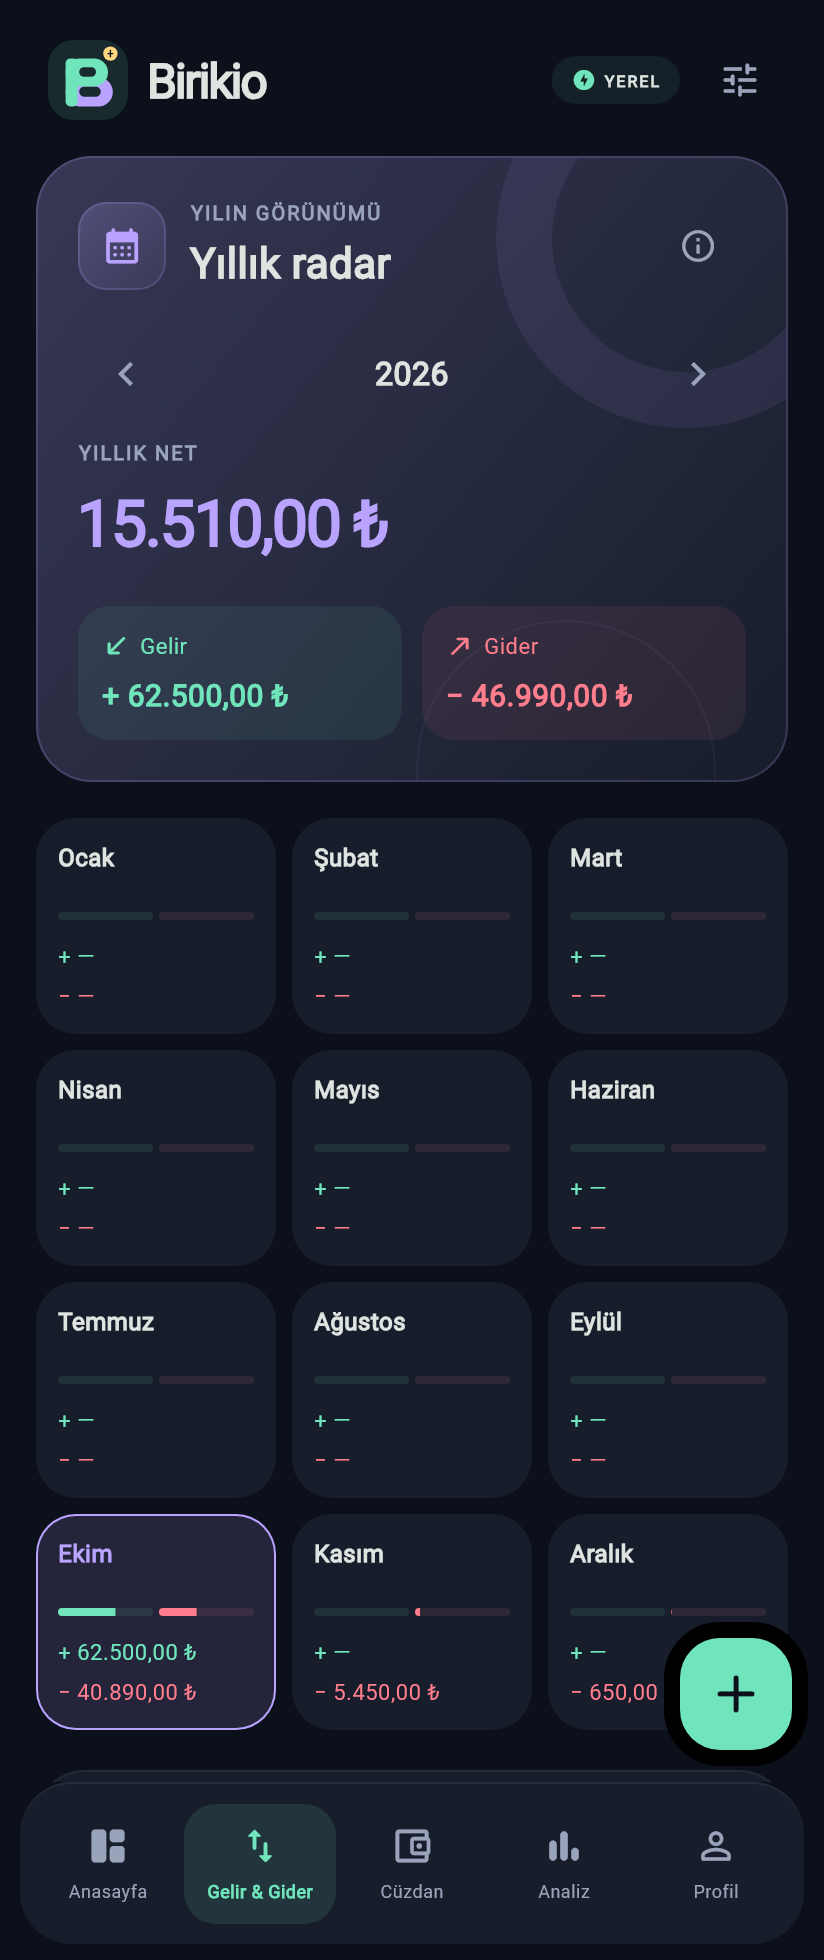
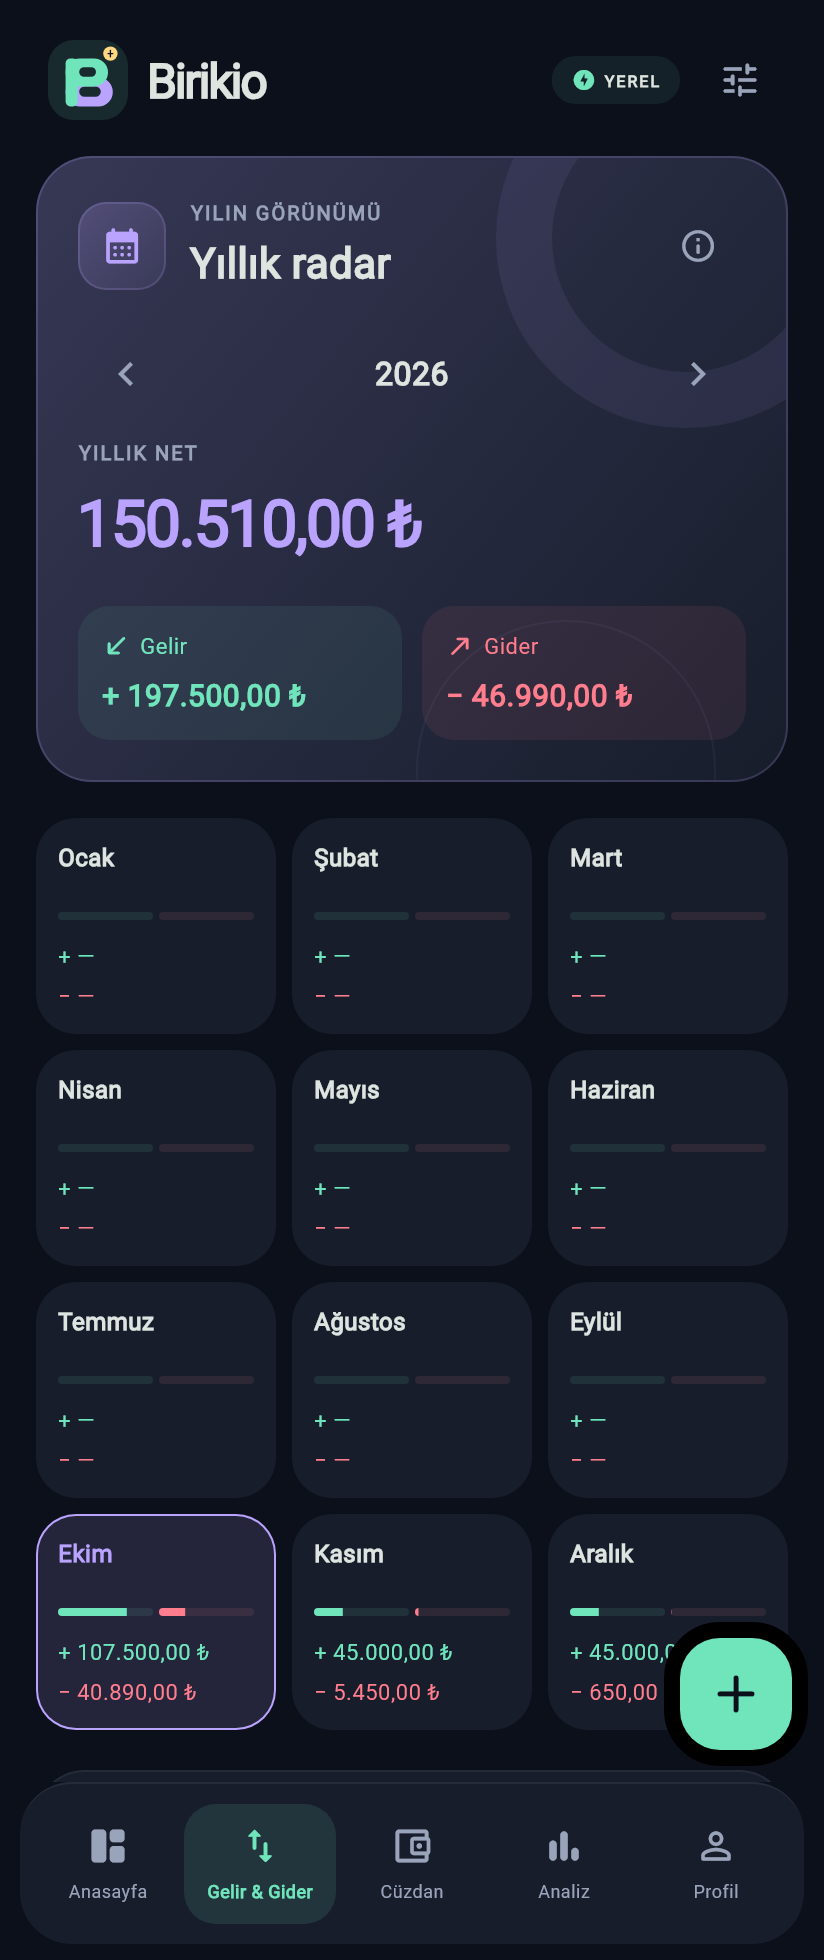
Show recurring monthly income and expenses with due status

diff --git a/lib/ui/app.dart b/lib/ui/app.dart
@@ -8,6 +8,7 @@ import 'package:flutter/material.dart';
 import 'package:flutter_localizations/flutter_localizations.dart';
 import 'package:flutter/services.dart';
 import '../data/store.dart';
+import '../data/annual_radar.dart';
 import '../data/backup.dart';
 import '../data/financial_health.dart';
 import '../data/goal_plan.dart';
@@ -2137,7 +2138,7 @@ class _HomeShellState extends State<HomeShell> with WidgetsBindingObserver {
       ...monthEntries
           .where((e) => typeMatches(e.income))
           .map((e) => e.category),
-      ...s.scheduledExpenses
+      ...annualRadarItems(s, entryMonth.year)
           .where((p) => dateMatches(p.due) && typeMatches(p.income))
           .map((p) => p.category),
     }.toList()..sort();
@@ -2181,14 +2182,28 @@ class _HomeShellState extends State<HomeShell> with WidgetsBindingObserver {
     }
 
     final data = records();
-    List<ScheduledExpense> plans() {
-      return s.scheduledExpenses
+    List<RadarExpense> plans() {
+      final years = entryAllMonths
+          ? <int>{
+              entryMonth.year,
+              ...s.scheduledExpenses.map((p) => p.due.year),
+            }
+          : <int>{entryMonth.year};
+      return years
+          .expand((year) => annualRadarItems(s, year))
           .where(
             (p) =>
-                p.paidAt == null &&
+                !p.paid &&
                 dateMatches(p.due) &&
                 typeMatches(p.income) &&
-                matches(p.title, p.category, p.note, p.amount, p.due, false),
+                matches(
+                  p.title,
+                  p.category,
+                  pendingNote(p),
+                  p.amount,
+                  p.due,
+                  p.fromRule,
+                ),
           )
           .toList()
         ..sort((a, b) => a.due.compareTo(b.due));
@@ -2384,6 +2399,24 @@ class _HomeShellState extends State<HomeShell> with WidgetsBindingObserver {
           ],
         ),
       ),
+      if (pending.isNotEmpty) ...[
+        const SizedBox(height: 8),
+        Wrap(
+          spacing: 12,
+          children: [
+            Chip(
+              label: Text(
+                'Beklenen gelir: +${money(pending.where((p) => p.income).fold<int>(0, (v, p) => v + p.amount))}',
+              ),
+            ),
+            Chip(
+              label: Text(
+                'Beklenen gider: −${money(pending.where((p) => !p.income).fold<int>(0, (v, p) => v + p.amount))}',
+              ),
+            ),
+          ],
+        ),
+      ],
       const SizedBox(height: 16),
       sectionTabs(
         ['Tümü', 'Gelirler', 'Giderler'],
@@ -2485,17 +2518,17 @@ class _HomeShellState extends State<HomeShell> with WidgetsBindingObserver {
           icon: Icons.schedule_rounded,
           action: pending.length > 5
               ? TextButton(
-                  onPressed: () => openRecords<ScheduledExpense>(
+                  onPressed: () => openRecords<RadarExpense>(
                     'Bekleyen kayıtlar',
                     scope,
                     plans,
-                    pendingRecordCard,
+                    projectedRecordCard,
                   ),
                   child: Text('Tümünü gör (${pending.length})'),
                 )
               : null,
           child: Column(
-            children: pending.take(5).map(pendingRecordCard).toList(),
+            children: pending.take(5).map(projectedRecordCard).toList(),
           ),
         ),
       ],
@@ -2508,7 +2541,9 @@ class _HomeShellState extends State<HomeShell> with WidgetsBindingObserver {
               : 'Bu ay kayıt yok',
           subtitle: filtered
               ? 'Aramayı veya filtreleri temizleyerek diğer kayıtlarını görebilirsin.'
-              : s.entries.isNotEmpty || s.scheduledExpenses.isNotEmpty
+              : s.entries.isNotEmpty ||
+                    s.scheduledExpenses.isNotEmpty ||
+                    s.rules.isNotEmpty
               ? 'Diğer aylardaki kayıtların saklanıyor. Tüm kayıtları açabilir veya üstteki oklarla ay değiştirebilirsin.'
               : 'Gelir, gider veya birikim için sağ alttaki + düğmesini kullan.',
           action: filtered ? 'Filtreleri temizle' : null,
@@ -2525,6 +2560,58 @@ class _HomeShellState extends State<HomeShell> with WidgetsBindingObserver {
           icon: Icons.event_note_outlined,
         ),
     ];
+  }
+
+  String pendingNote(RadarExpense p) => p.fromRule
+      ? s.rules.where((r) => r.id == p.id).firstOrNull?.note ?? ''
+      : s.scheduledExpenses.where((r) => r.id == p.id).firstOrNull?.note ?? '';
+
+  String pendingStatus(DateTime due) {
+    final today = day(DateTime.now());
+    return day(due).isBefore(today)
+        ? 'Gecikti'
+        : day(due) == today
+        ? 'Bugün'
+        : 'Yaklaşan';
+  }
+
+  Widget projectedRecordCard(RadarExpense p) {
+    if (p.scheduled) {
+      return pendingRecordCard(
+        s.scheduledExpenses.firstWhere((r) => r.id == p.id),
+      );
+    }
+    final rule = s.rules.where((r) => r.id == p.id).firstOrNull;
+    final colors = financeColors(context);
+    return ListTile(
+      contentPadding: const EdgeInsets.symmetric(vertical: 6),
+      leading: IconBadge(
+        Icons.autorenew_rounded,
+        color: p.income ? colors.positive : colors.negative,
+        size: 36,
+      ),
+      title: Text(p.title, style: const TextStyle(fontWeight: FontWeight.w700)),
+      subtitle: Text(
+        '${dateLabel(p.due)} · ${pendingStatus(p.due)}\n${p.fromRule ? 'Düzenli' : 'Yıllık ödeme'} · ${p.category}',
+      ),
+      isThreeLine: true,
+      trailing: Text(
+        '${p.income ? '+' : '−'}${money(p.amount)}',
+        style: TextStyle(
+          color: p.income ? colors.positive : colors.negative,
+          fontWeight: FontWeight.w700,
+        ),
+      ),
+      onTap: rule == null
+          ? () => setState(() => entryView = 1)
+          : () => sheet<void>(
+              context,
+              Padding(
+                padding: const EdgeInsets.all(16),
+                child: rule.isBill ? billCard(rule) : regularRecordCard(rule),
+              ),
+            ),
+    );
   }
 
   Widget pendingRecordCard(ScheduledExpense p) => Padding(
@@ -2563,7 +2650,7 @@ class _HomeShellState extends State<HomeShell> with WidgetsBindingObserver {
           ),
           const SizedBox(height: 8),
           Text(
-            '${dateLabel(p.due)} · ${p.income ? 'Beklenen gelir' : 'Ödeme bekliyor'}',
+            '${dateLabel(p.due)} · ${pendingStatus(p.due)} · ${p.income ? 'Beklenen gelir' : 'Ödeme bekliyor'}',
             style: const TextStyle(fontSize: 12),
           ),
           Row(

diff --git a/test/monthly_recurring_test.dart b/test/monthly_recurring_test.dart
@@ -1,0 +1,74 @@
+import 'package:birikio/data/store.dart';
+import 'package:birikio/data/annual_radar.dart';
+import 'package:birikio/ui/app.dart';
+import 'package:flutter/material.dart';
+import 'package:flutter_test/flutter_test.dart';
+
+void main() {
+  testWidgets('monthly records include future recurring income and expense', (
+    tester,
+  ) async {
+    tester.view.physicalSize = const Size(390, 844);
+    tester.view.devicePixelRatio = 1;
+    addTearDown(tester.view.resetPhysicalSize);
+    addTearDown(tester.view.resetDevicePixelRatio);
+    final now = DateTime.now();
+    final store = FinanceStore(read: () async => null, write: (_) async {})
+      ..motion = false;
+    for (final income in [true, false]) {
+      store.rules.add(
+        RepeatRule(
+          id: '$income',
+          title: income ? 'Düzenli maaş' : 'Düzenli kira',
+          amount: 10000,
+          income: income,
+          start: DateTime(now.year, now.month, 28),
+          category: income ? 'Maaş' : 'Kira',
+          frequency: 3,
+        ),
+      );
+    }
+    await tester.pumpWidget(BirikioApp(store: store));
+    await tester.tap(find.text('Gelir & Gider').last);
+    await tester.pumpAndSettle();
+    expect(find.text('0 gerçekleşmiş · 2 bekleyen kayıt'), findsOneWidget);
+    await tester.ensureVisible(find.text('Düzenli maaş'));
+    expect(find.text('Düzenli maaş'), findsOneWidget);
+    expect(find.text('Düzenli kira'), findsOneWidget);
+    expect(find.textContaining('Yaklaşan'), findsNWidgets(2));
+    expect(store.balance, 0);
+    await tester.ensureVisible(find.text('Gelirler'));
+    await tester.tap(find.text('Gelirler'));
+    await tester.pumpAndSettle();
+    expect(find.text('0 gerçekleşmiş · 1 bekleyen kayıt'), findsOneWidget);
+    expect(find.text('Düzenli kira'), findsNothing);
+    expect(tester.takeException(), isNull);
+  });
+
+  test(
+    'projection respects paid periods, cursor, end date and inactive series',
+    () {
+      final store = FinanceStore(read: () async => null, write: (_) async {});
+      final rule = RepeatRule(
+        id: 'r',
+        title: 'Maaş',
+        amount: 10000,
+        income: true,
+        start: DateTime(2026, 1, 15),
+        category: 'Maaş',
+        frequency: 3,
+        endDate: DateTime(2026, 3, 15),
+      );
+      store.rules.add(rule);
+      store.materialize(DateTime(2026, 2, 16));
+      var items = annualRadarItems(store, 2026);
+      expect(items.length, 3);
+      expect(items.where((p) => p.paid).length, 2);
+      expect(items.where((p) => !p.paid).single.due, DateTime(2026, 3, 15));
+      store.entries.removeAt(0);
+      expect(annualRadarItems(store, 2026).length, 2);
+      rule.active = false;
+      expect(annualRadarItems(store, 2026).single.paid, isTrue);
+    },
+  );
+}

diff --git a/tools/capture_readme.dart b/tools/capture_readme.dart
@@ -168,6 +168,17 @@ void main() {
     ]);
     store.rules.add(
       RepeatRule(
+        id: 'future-salary',
+        title: 'Düzenli maaş',
+        amount: 4500000,
+        income: true,
+        start: DateTime(now.year, now.month, 28),
+        category: 'Maaş',
+        frequency: 3,
+      ),
+    );
+    store.rules.add(
+      RepeatRule(
         id: 'internet',
         title: 'Ev interneti',
         amount: 65000,
@@ -243,9 +254,18 @@ void main() {
     await tester.tap(find.text('Gelir & Gider').last);
     await tester.pumpAndSettle();
     await capture('transactions');
+    await tester.tap(find.text('Gelirler'));
+    await tester.pumpAndSettle();
+    await tester.ensureVisible(find.text('Düzenli maaş'));
+    await tester.pumpAndSettle();
+    await capture('monthly-pending');
+    await tester.ensureVisible(find.text('Giderler'));
+    await tester.pumpAndSettle();
     await tester.tap(find.text('Giderler'));
     await tester.pumpAndSettle();
     await capture('expenses');
+    await tester.ensureVisible(find.text('Tüm kayıtları göster').first);
+    await tester.pumpAndSettle();
     await tester.tap(find.text('Tüm kayıtları göster').first);
     await tester.pumpAndSettle();
     await tester.tap(find.text('Tümü').first);

diff --git a/lib/data/annual_radar.dart b/lib/data/annual_radar.dart
@@ -81,7 +81,9 @@ List<RadarExpense> annualRadarItems(FinanceStore store, int year) {
         period++
       )
         if (rule.occurrence(period).year == year &&
-            (rule.active ||
+            ((rule.active &&
+                    ((rule.isBill && !rule.automaticPayment) ||
+                        period >= rule.cursor)) ||
                 store.entries.any((e) => e.id == '${rule.id}:$period')) &&
             (rule.endDate == null ||
                 !rule.occurrence(period).isAfter(day(rule.endDate!))))

diff --git a/README.md b/README.md
@@ -47,9 +47,13 @@ Alttaki **+** düğmesi gelir, gider ve birikim hedefi ekleme akışlarını aç
 
 ### 3. İleri tarihli gideri veya düzenli ödemeyi planla
 
+<p align="center"><img src="docs/images/monthly-pending.png" alt="Seçili ayda düzenli beklenen gelir ve yaklaşan durum etiketi" width="310" /></p>
+
 Gider formunda ileri tarih seçersen tek seferlik kayıt **bekleyen ödeme** olur ve radara eklenir. **Düzenli ödeme** seçeneğiyle sıklığı ve isteğe bağlı bitiş tarihini belirleyebilirsin. Otomatik seçilen düzenli ödemeler vadesinde gider kaydı oluşturur; bu, bankadan tahsilat doğrulaması değildir.
 
 İleri tarihli tek seferlik gelir, giderlerle birlikte **Kayıtlar** ve **Yıllık radar** içinde bekleyen kayıt olarak görünür. Listeden doğrudan düzenlenebilir veya silinebilir. Vadesine kadar kullanılabilir bakiyeye katılmaz; vade günü kendi tarihiyle bir kez gelir kaydına dönüşür.
+
+**Aylık kayıtlar:** Seçili ayın gerçekleşen gelir ve giderleriyle birlikte düzenli serilerin o aya düşen tüm bekleyen vadeleri gösterilir. Bekleyen satırlar **Yaklaşan**, **Bugün** veya **Gecikti** durumunu taşır; düzenli kayıtlar ayrıca belirtilir. Gerçekleşen vadeler ikinci kez bekleyen olarak listelenmez. Beklenen tutarlar ayrı gösterilir ve kullanılabilir bakiyeye eklenmez. Arama, kategori ve tekrar filtreleri bekleyen düzenli kayıtları da kapsar. Her bölüm ilk 5 kaydı gösterir; devamı **Tümünü gör** ile açılır. **Tüm kayıtları göster** geçmiş işlemleri ve tek seferlik planları açar; sonsuz tekrar üretmemek için düzenli vadeler seçili yıl ve tek seferlik planların yıllarıyla sınırlıdır. Başka yılları ay okları veya yıllık radarla inceleyebilirsin.
 
 <table>
   <tr>
@@ -192,7 +196,7 @@ pwsh -File tools/build_update_apk.ps1
 
 Betik analiz ve testlerden sonra release APK'sini derler; aynı özel anahtarla imzalar ve paket kimliği, sürüm kodu ile sertifika parmak izini doğrulamadan masaüstüne kopyalamaz. Son teslim kodunu `tools/update_identity.json` içinde günceller; bu dosyayı da değişikliklerle birlikte commit et. Eski anahtar `~/.android/debug.keystore` konumunda bulunmalıdır. Anahtarın güvenli bir çevrimdışı kopyasını sakla; **yeni debug anahtarı üretmek aynı imzayı sağlamaz**. Bu anahtarı repoya ekleme.
 
-Telefonunda önceki Birikio APK'si yüklüyse güncelleme için `com.bekirturgut.birikio` paket kimliği, **aynı imza sertifikası** ve daha yüksek `versionCode` gerekir. Son teslim `1.2.1+6` değerini kullanır. Kurmadan önce **Profil → Yedek oluştur**; APK'yi mevcut uygulamanın üzerine **Güncelle** ile kur. Kaldırma veya uygulama verilerini temizleme yerel kayıtları silebilir. İmza uyuşmazlığı yüzünden Android kaldırma isterse işlemi durdur ve yedeği al.
+Telefonunda önceki Birikio APK'si yüklüyse güncelleme için `com.bekirturgut.birikio` paket kimliği, **aynı imza sertifikası** ve daha yüksek `versionCode` gerekir. Son teslim `1.2.2+7` değerini kullanır. Kurmadan önce **Profil → Yedek oluştur**; APK'yi mevcut uygulamanın üzerine **Güncelle** ile kur. Kaldırma veya uygulama verilerini temizleme yerel kayıtları silebilir. İmza uyuşmazlığı yüzünden Android kaldırma isterse işlemi durdur ve yedeği al.
 
 > README görselleri Flutter widget testinde gerçek arayüz bileşenlerinden üretilir. iOS cihaz derlemesi henüz doğrulanmamıştır.
 
@@ -276,7 +280,7 @@ Testler; para ayrıştırma, ay sonu ve artık yıl davranışları, tekrarları
 
 ### Görselleri yeniden üretme
 
-README'deki 22 ekran görüntüsü uygulamanın gerçek bileşenlerinden, bellekte tutulan kurgu örnek verilerle üretilir. Kendi Flutter SDK yolunu ver:
+README'deki 23 ekran görüntüsü uygulamanın gerçek bileşenlerinden, bellekte tutulan kurgu örnek verilerle üretilir. Kendi Flutter SDK yolunu ver:
 
 ```sh
 flutter test tools/capture_readme.dart --dart-define=FLUTTER_SDK=C:/flutter
@@ -295,4 +299,3 @@ python tools/readme_banner.py
 ---
 
 <p align="center"><strong>Birikio</strong><br /><sub>Küçük adımlar. Büyük birikimler.</sub></p>
-
